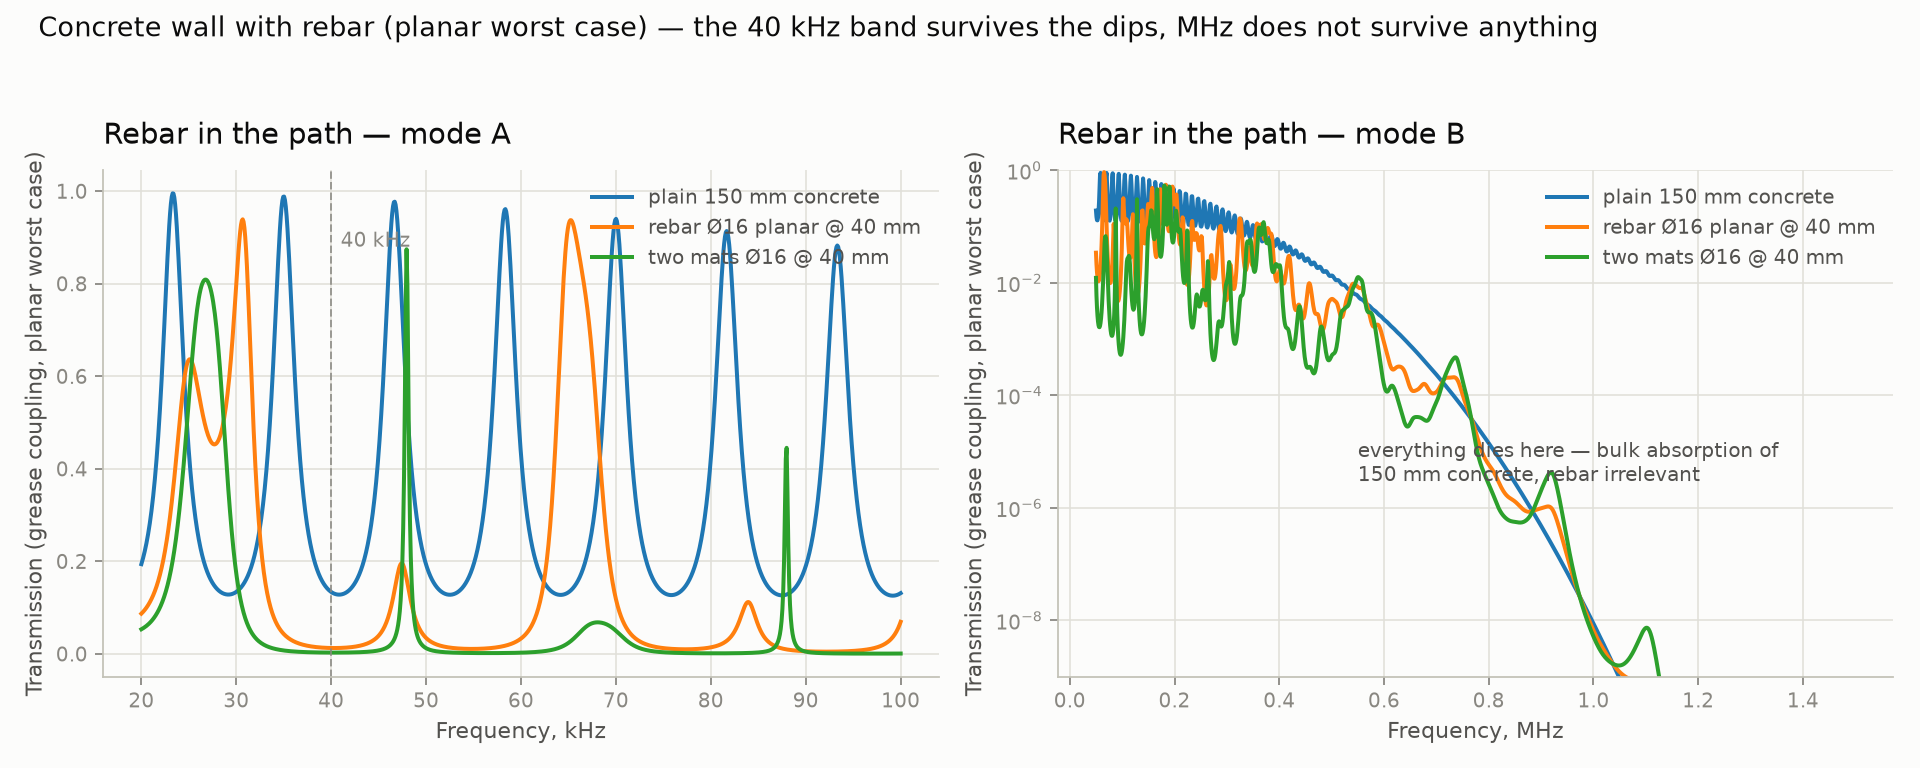
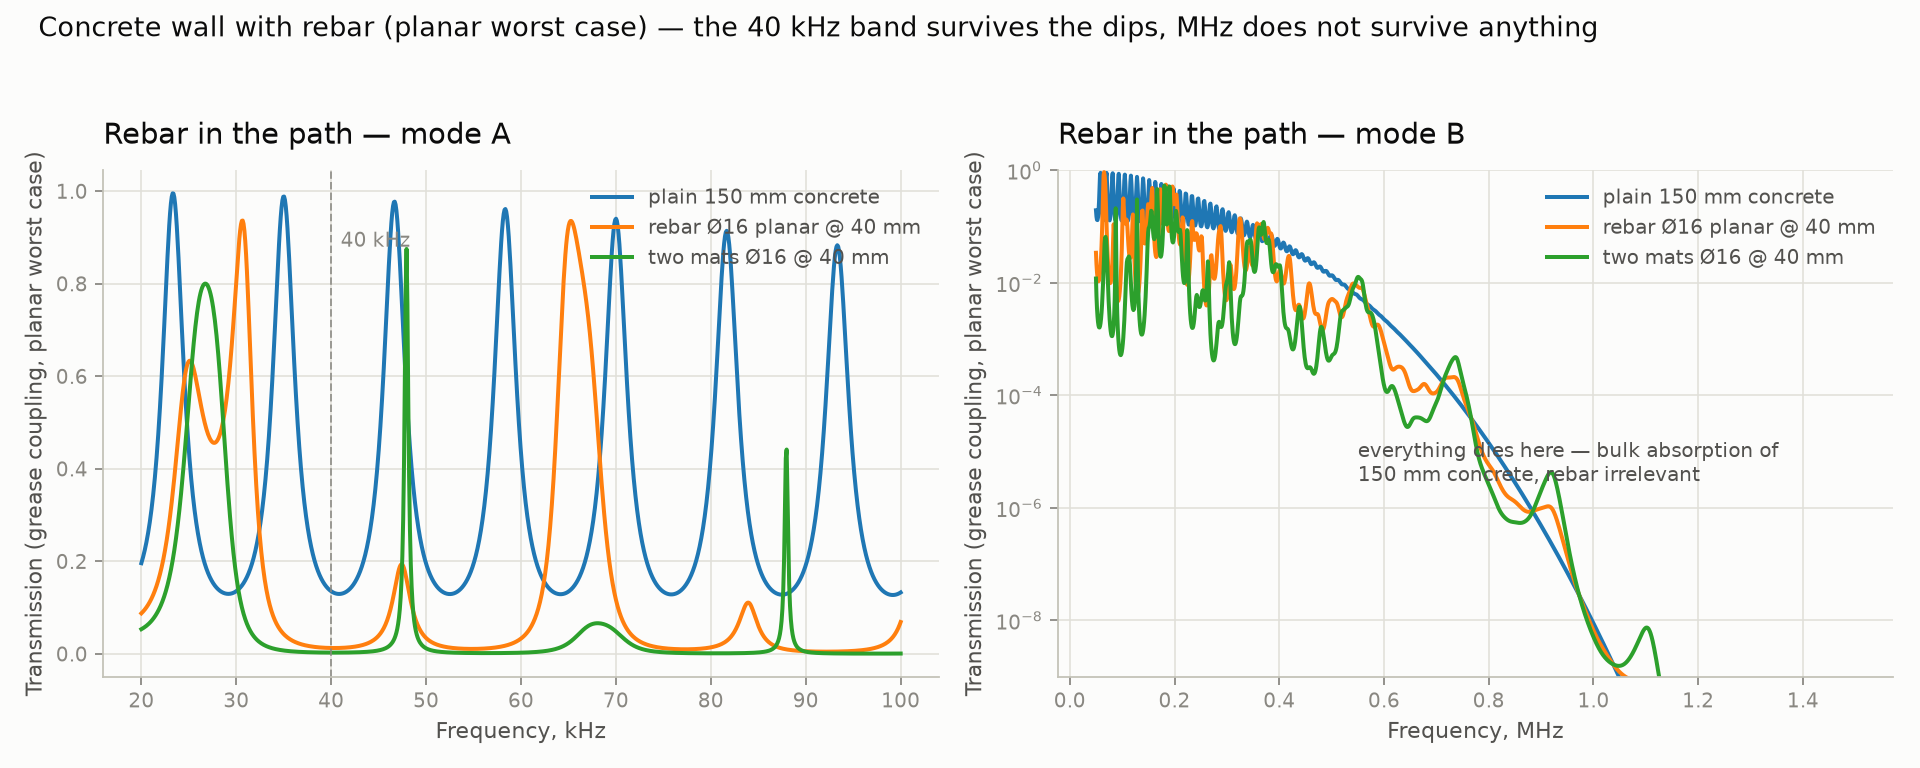
audit fixes: doc numbers, rebar constants unified, third-method check in CI
Full re-verification pass over the branch found and fixes three real
problems and one drift trap:

- docs/06 bottom-line claimed 'stress margins >=15x' at 0.3 W/cm^2 —
  concrete's tensile margin at that density is 11x (sigma scales as
  sqrt(I), so 6x at 1 W/cm^2 becomes 11x at 0.3). Corrected with the
  tightest case named.
- the 40 kHz material ladder omitted alumina (T=0.51, between aluminum
  and titanium); PMMA's one-way loss tightened from a loose '1-3 dB'
  to the computed 1.3 dB.
- chart_rebar/rebar_table hardcoded concrete/steel constants that had
  drifted from MATERIALS (8.1 vs 8.05 MRayl). Now pulled through _spec()
  — single source of truth; mat5 and the doc table regenerated
  (plain 0.134 -> 0.135 etc, conclusions unchanged: x10 single mat,
  x45 two mats).
- selfcheck 6c: stack_transmission now cross-checked in CI against a
  boundary-value linear system (wave amplitudes, no matrices, no
  impedance recursion) on 8 deterministic stacks incl. lossy randoms —
  max rel dev 1.2e-15. The solver is now validated by three
  independent methods.

Changed region(s): [[0.1875, 0.625, 0.2188, 0.75], [0.0938, 0.375, 0.125, 0.5], [0.0938, 0.5625, 0.125, 0.5938]]

diff --git a/software/simulator/selfcheck_material_map.py b/software/simulator/selfcheck_material_map.py
@@ -217,6 +217,71 @@ t_zero = mm.stack_transmission(40e3, [(zc, cc_, 0.075, a1c, gc),
 check("zero-thickness layer is a no-op", abs(t_plain - t_zero) < 1e-12,
       f"|{t_plain:.6f} - {t_zero:.6f}|")
 
+print("== 6c. stack solver vs a third method (boundary linear system) ==")
+# Solves the full boundary-value problem over wave amplitudes — no transfer
+# matrices, no impedance recursion. If this and stack_transmission ever
+# disagree, one of them is wrong, and CI stops.
+def _lin_T(f, layers, z0_m=1.5):
+    Z0 = z0_m * 1e6
+    N = len(layers)
+    w = 2 * math.pi * f
+    ks = [w / c - 1j * (a1 * (f / 1e6) ** g * 100 / 4.343) / 2
+          for _, c, _, a1, g in layers]
+    Zs = [z * 1e6 for z, *_ in layers]
+    ds = [d for _, _, d, _, _ in layers]
+    n = 2 + 2 * N                              # r, a/b per layer, t
+    A = np.zeros((n, n), dtype=complex)
+    y = np.zeros(n, dtype=complex)
+    ia, ib = (lambda j: 1 + 2 * j), (lambda j: 2 + 2 * j)
+    row = 0
+    A[row, 0], A[row, ia(0)], A[row, ib(0)] = -1, 1, 1
+    y[row] = 1; row += 1                       # pressure @ front
+    A[row, 0] = 1 / Z0
+    A[row, ia(0)], A[row, ib(0)] = 1 / Zs[0], -1 / Zs[0]
+    y[row] = 1 / Z0; row += 1                  # velocity @ front
+    for j in range(N - 1):
+        pf, pb = np.exp(-1j * ks[j] * ds[j]), np.exp(1j * ks[j] * ds[j])
+        A[row, ia(j)], A[row, ib(j)] = pf, pb
+        A[row, ia(j + 1)], A[row, ib(j + 1)] = -1, -1
+        row += 1                               # pressure @ interface j
+        A[row, ia(j)], A[row, ib(j)] = pf / Zs[j], -pb / Zs[j]
+        A[row, ia(j + 1)], A[row, ib(j + 1)] = -1 / Zs[j + 1], 1 / Zs[j + 1]
+        row += 1                               # velocity @ interface j
+    pf, pb = np.exp(-1j * ks[-1] * ds[-1]), np.exp(1j * ks[-1] * ds[-1])
+    A[row, ia(N - 1)], A[row, ib(N - 1)], A[row, n - 1] = pf, pb, -1
+    row += 1                                   # pressure @ back
+    A[row, ia(N - 1)], A[row, ib(N - 1)] = pf / Zs[-1], -pb / Zs[-1]
+    A[row, n - 1] = -1 / Z0
+    x = np.linalg.solve(A, y)
+    return abs(x[n - 1]) ** 2
+
+def _lay(key, d):
+    m = mm.BY_KEY[key]
+    return (mm.z_mrayl(m), m[3], d, m[4], m[5])
+
+_cases = [
+    (40e3, [_lay("concrete", 0.040), _lay("steel", 0.016),
+            _lay("concrete", 0.094)]),
+    (1e6,  [_lay("concrete", 0.040), _lay("steel", 0.016),
+            _lay("concrete", 0.094)]),
+    (40e3, [_lay("concrete", 0.072), _lay("pvc", 0.0015), _lay("cu", 0.003),
+            _lay("pvc", 0.0015), _lay("concrete", 0.072)]),
+]
+_rng = np.random.default_rng(2026)
+for _ in range(5):
+    _cases.append((float(10 ** _rng.uniform(4.3, 6.7)),
+                   [(float(10 ** _rng.uniform(-1, 2)), float(10 ** _rng.uniform(2.7, 3.9)),
+                     float(10 ** _rng.uniform(-3.7, -1.7)), float(10 ** _rng.uniform(-2, 1.3)),
+                     float(_rng.uniform(0.8, 2.6))) for _ in range(int(_rng.integers(1, 5)))]))
+_worst = 0.0
+for _f, _layers in _cases:
+    _t1 = mm.stack_transmission(_f, _layers)
+    _t2 = _lin_T(_f, _layers)
+    if _t2 > 1e-12:
+        _worst = max(_worst, abs(_t1 - _t2) / _t2)
+check("stack_transmission == boundary-linear-system (8 stacks)", _worst < 1e-9,
+      f"max rel dev {_worst:.1e}")
+
 print("== 6. sanity vs the repo's own physics docs ==")
 s_steel = float(mm.stress_mpa(mm.BY_KEY["steel"]))
 check("steel stress @1 W/cm2 within 0.7-1.1 MPa (docs/00 ballpark)",

diff --git a/software/simulator/material_map.py b/software/simulator/material_map.py
@@ -120,6 +120,12 @@ MATERIALS = [
 ]
 BY_KEY = {m[0]: m for m in MATERIALS}
 
+def _spec(key):
+    """Layer spec (Z, c, a1, gamma) pulled from MATERIALS — one source of
+    truth, so the stack studies cannot drift from the material table."""
+    m = BY_KEY[key]
+    return (z_mrayl(m), m[3], m[4], m[5])
+
 COLOR = {"steel": "C0", "alum": "C1", "ti": "C2", "cu": "C3",
          "glass": "C4", "alumina": "C5", "pmma": "C6", "pvc": "C7",
          "hdpe": "C8", "concrete": "C9", "rubber": MUTED}
@@ -348,8 +354,8 @@ def chart_rebar(out: Path):
     f_a = np.linspace(20e3, 100e3, 900)
     f_b = np.linspace(0.05e6, 1.5e6, 1500)
     total, cover, bar = 0.150, 0.040, 0.016
-    conc = (8.1, 3500.0, 5.0, 2.5)          # Z, c, a1, gamma — as in MATERIALS
-    steel = (46.3, 5900.0, 0.02, 1.0)
+    conc = _spec("concrete")                 # Z, c, a1, gamma — from MATERIALS
+    steel = _spec("steel")
 
     def concrete(d):
         return (conc[0], conc[1], d, conc[2], conc[3])
@@ -464,8 +470,8 @@ def harm_table() -> str:
 
 def rebar_table() -> str:
     total, cover, bar = 0.150, 0.040, 0.016
-    conc = (8.1, 3500.0, 5.0, 2.5)
-    steel = (46.3, 5900.0, 0.02, 1.0)
+    conc = _spec("concrete")
+    steel = _spec("steel")
 
     def concrete(d):
         return (conc[0], conc[1], d, conc[2], conc[3])

diff --git a/docs/06-materials.md b/docs/06-materials.md
@@ -51,8 +51,8 @@ Three quantities decide whether a wall is usable at all, and for how much power:
 
 ## What the sweep says
 
-- **At 40 kHz, low-Z walls (plastics, rubber lining) couple *more easily* than steel** — through grease they are almost impedance-matched, so the comb is broad and transmission per pass is high. What kills plastics at higher frequencies is **bulk absorption**, not contact or impedance. The material ladder at 40 kHz is therefore inverted vs intuition: HDPE/PMMA/PVC > glass/concrete > aluminum > titanium > steel > copper — with the strong caveat that the rubbers' 40 kHz number extrapolates α linearly down from 1 MHz, which viscoelasticity does not guarantee.
-- **Mode B divides materials cleanly.** Metals, glass and alumina take MHz with negligible absorption (α ≤ 0.1 dB/cm); the comb is *sharp* for high-Z walls (steel, alumina — needs frequency tracking, the ~6% ⇒ ~10× lesson of [00-theory](00-theory.md)) and *wide* for glass/PMMA (tolerant, but PMMA pays ~1–3 dB one-way at 1 MHz through 5 mm — mW-class only).
+- **At 40 kHz, low-Z walls (plastics, rubber lining) couple *more easily* than steel** — through grease they are almost impedance-matched, so the comb is broad and transmission per pass is high. What kills plastics at higher frequencies is **bulk absorption**, not contact or impedance. The material ladder at 40 kHz is therefore inverted vs intuition: HDPE/PMMA/PVC > glass/concrete > aluminum > alumina > titanium > steel > copper — with the strong caveat that the rubbers' 40 kHz number extrapolates α linearly down from 1 MHz, which viscoelasticity does not guarantee.
+- **Mode B divides materials cleanly.** Metals, glass and alumina take MHz with negligible absorption (α ≤ 0.1 dB/cm); the comb is *sharp* for high-Z walls (steel, alumina — needs frequency tracking, the ~6% ⇒ ~10× lesson of [00-theory](00-theory.md)) and *wide* for glass/PMMA (tolerant, but PMMA pays ~1.3 dB one-way at 1 MHz through 5 mm — mW-class only).
 - **Concrete is a 40 kHz material, not a MHz one.** Aggregate scattering (λ at 1 MHz ≈ 3.5 mm ≈ aggregate size) throws γ up to ~2.5 and kills MHz; ultrasonic pulse-velocity practice (40–80 kHz through ≥1 m paths) is exactly mode A.
 - **The battery-pack niche ([05](05-applications-map.md)) is acoustically favorable:** a 2–3 mm aluminum wall has a coupling proxy ~3× steel's and negligible absorption — the flagship case is also the easy case.
 - **The frequency ladder to plan for in mode B** (5 mm wall, first comb): PVC/HDPE ≈ 235 kHz, PMMA ≈ 270, copper ≈ 480, steel ≈ 590, titanium ≈ 610, aluminum ≈ 630, glass ≈ 560, alumina ≈ 990. Thinner wall ⇒ proportionally higher.
@@ -89,7 +89,7 @@ What the dose sweep says:
 - **The steel verdict of [00-theory](00-theory.md) holds and generalizes**: every structural metal carries 1 W/cm² with margins of 65–680× in stress and micro-kelvins of self-heating. Metals are frequency-insensitive in harm terms — their loss is too small to heat at any power we can couple.
 - **Frequency harm on polymers is thermal, not mechanical.** PMMA's stress margin is a comfortable 60× even at 1 W/cm², but the heating knee sits right around 1 MHz: benign (~0.2 K) at 40 kHz, +9.5 K at 1 MHz, +65 K at 5 MHz — softening territory at a few W/cm². PVC crosses the +10 K line already at ~0.35 W/cm² @ 1 MHz; rubber absorbs ~288 K per W·cm⁻² at 1 MHz (and ~12 K even at 40 kHz) — hysteretic heating is *the* reason elastomer-lined walls die, not the comb. HDPE splits the difference and remembers its melt point: +215 K per W·cm⁻² at 5 MHz.
 - **Concrete's tight margin is tensile, not thermal**: 0.40 MPa wave stress against a ~2.5 MPa static tensile strength (fatigue lower still) leaves only a ~6× margin at 1 W/cm². The 40–80 kHz regime stays fine at the project's power density; concentrated multi-W/cm² beams into concrete should be avoided, MHz doubly so (scattering heats the aggregate interfaces).
-- **Bottom line for the roadmap:** at mode-A power densities (≤0.3 W/cm²) no solid in the table is endangered — stress margins ≥15× and heating ≤0.2 K for every engineered solid (rubber, the exception nobody targets, ~3.5 K). The harm map justifies the project's plan to escalate power: the first real material limits appear *above* the stage-2 targets, first in liquids (cavitation, the ≤1 W/cm² rule of [00-theory](00-theory.md)), then in concrete's tensile fatigue, then in polymers at MHz. The parts that actually need watching at high power remain the piezo ceramic and the bond line — [02-safety](02-safety.md) — not the wall.
+- **Bottom line for the roadmap:** at mode-A power densities (≤0.3 W/cm²) no solid in the table is endangered — stress margins ≥11× (the tightest is concrete's tensile fatigue at 11×; everything else ≥15×) and heating ≤0.2 K for every engineered solid (rubber, the exception nobody targets, ~3.5 K). The harm map justifies the project's plan to escalate power: the first real material limits appear *above* the stage-2 targets, first in liquids (cavitation, the ≤1 W/cm² rule of [00-theory](00-theory.md)), then in concrete's tensile fatigue, then in polymers at MHz. The parts that actually need watching at high power remain the piezo ceramic and the bond line — [02-safety](02-safety.md) — not the wall.
 
 ## Verdict per material
 
@@ -114,9 +114,9 @@ Real concrete is never plain: reinforcement mats sit at a cover depth, and the 1
 
 | Stack (150 mm concrete) | T(40 kHz) | T(100 kHz) | T(1 MHz) |
 |---|---|---|---|
-| plain 150 mm | 0.134 | 0.131 | 8.8e-09 |
-| rebar Ø16 @ 40 mm | 0.013 | 0.069 | 6.7e-09 |
-| two mats Ø16 @ 40 mm | 0.003 | 0.001 | 5.2e-09 |
+| plain 150 mm | 0.135 | 0.133 | 8.9e-09 |
+| rebar Ø16 @ 40 mm | 0.013 | 0.069 | 6.6e-09 |
+| two mats Ø16 @ 40 mm | 0.003 | 0.001 | 5.1e-09 |
 
 <img src="img/mat5-rebar.png" width="880">
 
